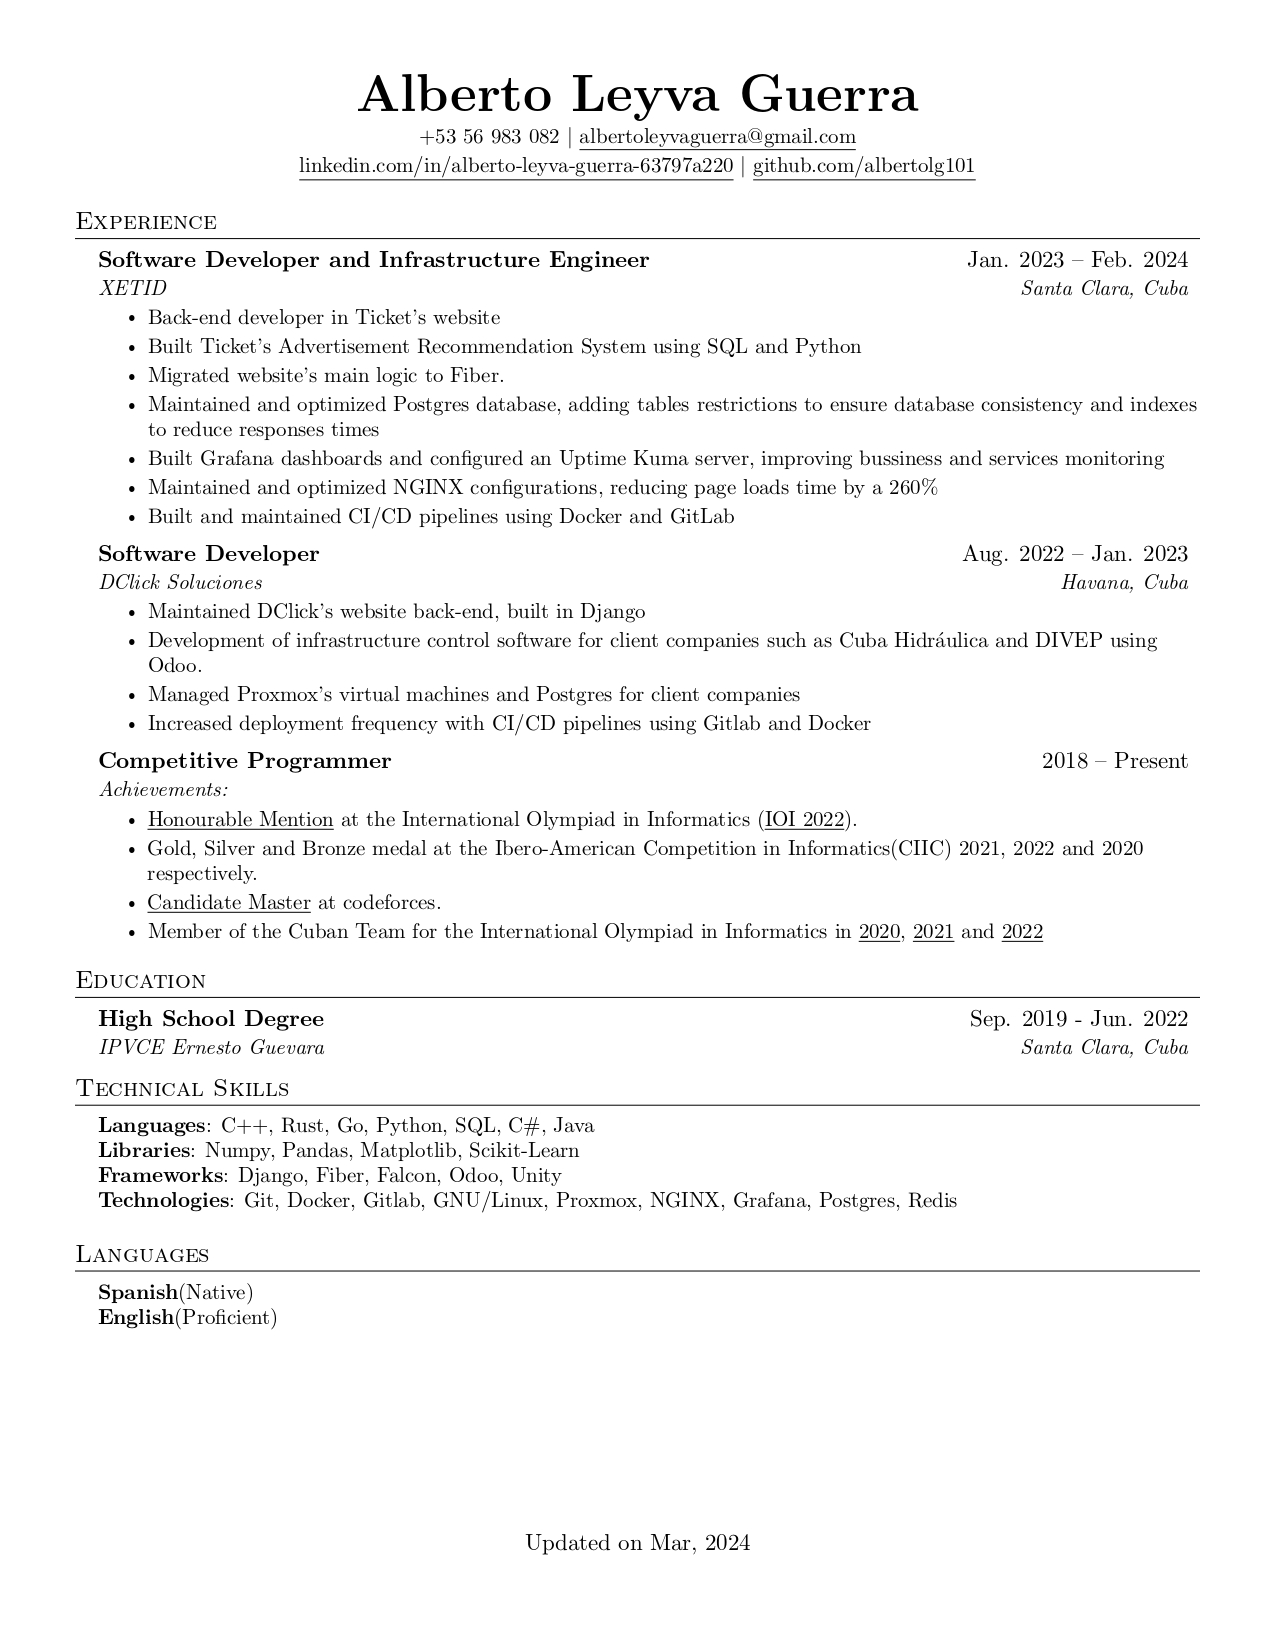
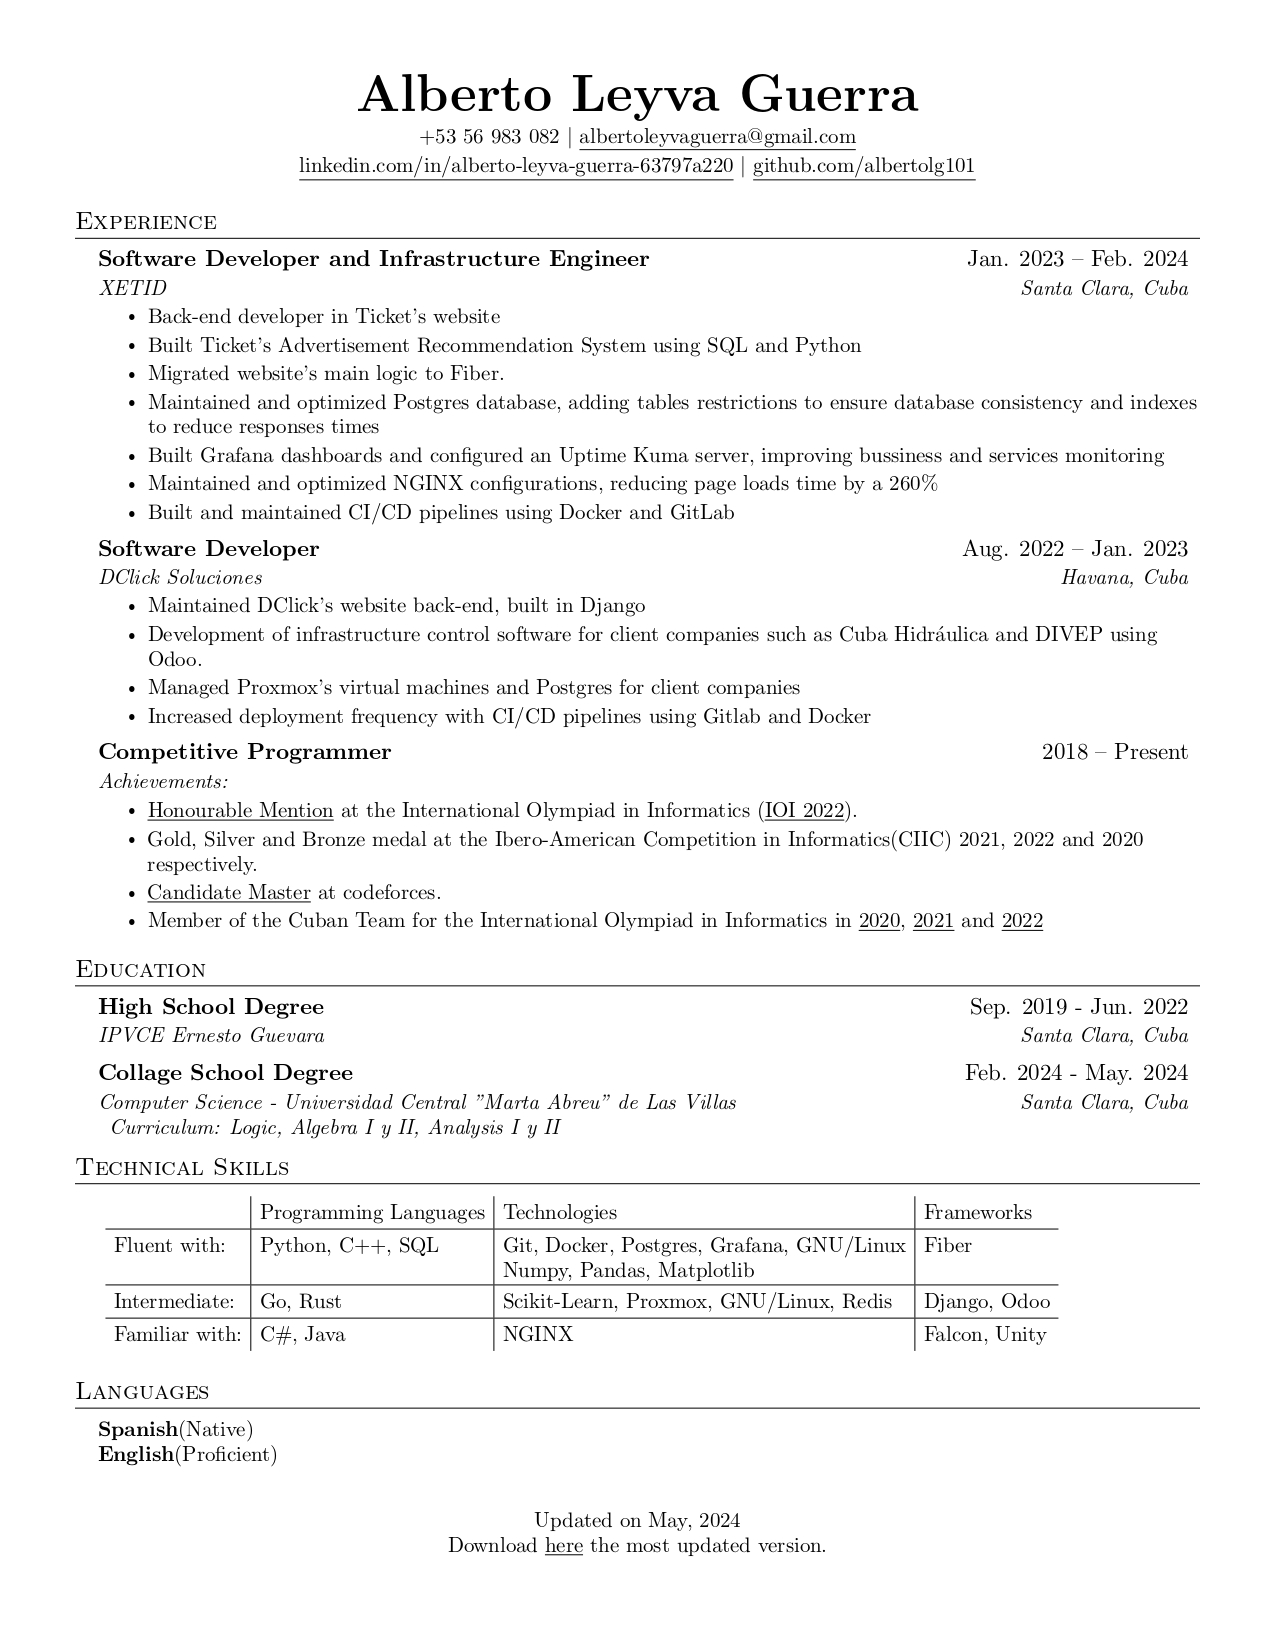
feat: convert technical skills in a table and add link to github resume.pdf

diff --git a/resume.tex b/resume.tex
@@ -91,6 +91,13 @@
     \end{tabular*}\vspace{-7pt}
 }
 
+\newcommand{\resumeTechnicalSkillItem}[4]{
+    \textbf{#1:} \\
+    \hspace{2pt}\textit{Fluent with}{: #2} \\
+    \hspace{2pt}\textit{Intermediate}{: #3} \\
+    \hspace{2pt}\textit{Familiar with}{: #4} \\
+}
+
 \newcommand{\resumeSubItem}[1]{\resumeItem{#1}\vspace{-4pt}}
 
 \renewcommand\labelitemii{$\vcenter{\hbox{\tiny$\bullet$}}$}
@@ -196,23 +203,47 @@
     \resumeSubheading
       {High School Degree}{Sep. 2019 - Jun. 2022}
       {IPVCE Ernesto Guevara}{Santa Clara, Cuba}
+    \resumeSubheading
+      {Collage School Degree}{Feb. 2024 - May. 2024}
+      {\vtop{
+        \hbox{\strut Computer Science - Universidad Central "Marta Abreu" de Las Villas}
+        \hbox{\strut \hspace{2pt} Curriculum: Logic, Algebra I y II, Analysis I y II}
+      }}{Santa Clara, Cuba}
   \resumeSubHeadingListEnd
-      
-      
+
 %-----------PROGRAMMING SKILLS-----------
 \section{Technical Skills}
-  \begin{itemize}[leftmargin=0.15in, label={}]
-    \small{\item{
-      \textbf{Languages}{: C++, Rust, Go, Python, SQL, C\#, Java} \\
-      \textbf{Libraries}{: Numpy, Pandas, Matplotlib, Scikit-Learn} \\
-      \textbf{Frameworks}{: Django, Fiber, Falcon, Odoo, Unity} \\
-      \textbf{Technologies}{: Git, Docker, Gitlab, GNU/Linux, Proxmox, NGINX, Grafana, Postgres, Redis} \\
-      %\textbf{ORMs}{: Eloquent, TypeORM}
-    }}
- \end{itemize}
+  \small
+  \hspace{8pt}
+  \def\arraystretch{1.3}%
+  \setlength\tabcolsep{4pt}
+  \begin{tabular}{ l | l | l | l }
+    & Programming Languages 
+    & Technologies 
+    & Frameworks \\
+    \hline
+    
+    Fluent with: 
+    & Python, C++, SQL 
+    & \vtop{
+        \hbox{\strut Git, Docker, Postgres, Grafana, GNU/Linux} 
+        \hbox{\strut Numpy, Pandas, Matplotlib}}
+    & Fiber \\
+    \hline
 
+    Intermediate:
+    & Go, Rust
+    & Scikit-Learn, Proxmox, GNU/Linux, Redis 
+    & Django, Odoo \\
+    \hline
 
-%-----------PROGRAMMING SKILLS-----------
+    Familiar with:
+    & C\#, Java
+    & NGINX
+    & Falcon, Unity
+  \end{tabular}
+
+%-----------Languages -----------
 \section{Languages}
   \begin{itemize}[leftmargin=0.15in, label={}]
     \small{\item{
@@ -226,7 +257,8 @@
 %-----------FOOTER-----------
 \vspace*{\fill}
 \begin{center}
-  Updated on Mar, 2024
+  Updated on May, 2024 \\
+  Download \href{https://raw.githubusercontent.com/albertolg101/resume/main/resume.pdf}{\underline{here}} the most updated version.
 \end{center}
 
 \end{document}
